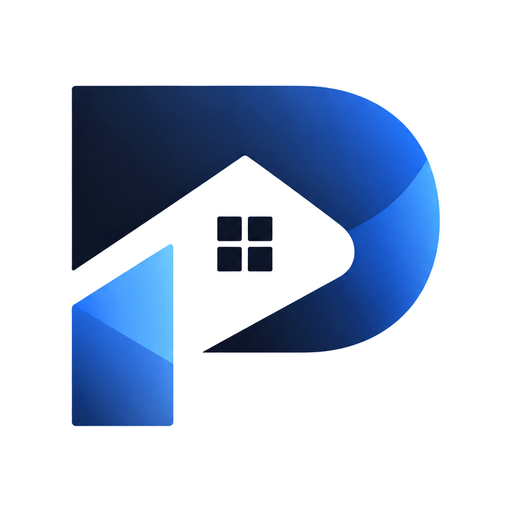
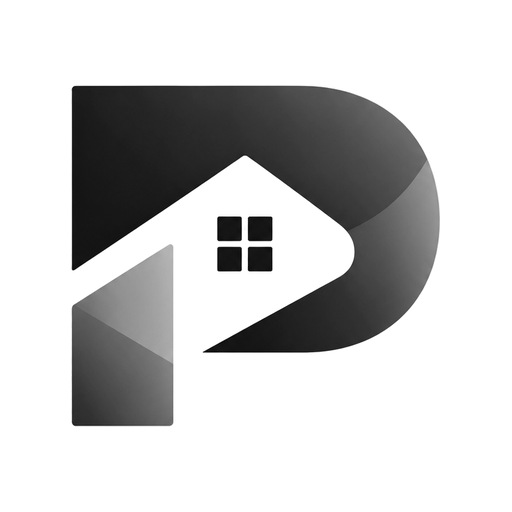
Web: monochrome theme — black ink where the blue brand was
Every brand, info and accent token re-stepped to greys in both light and
dark; ok/warn/danger keep their hues because status must read at a
glance. Logo assets desaturated to match. The login scene is re-stepped
to greyscale like any other token.

Changed region(s): [[0.125, 0.1562, 0.875, 0.6875], [0.125, 0.4688, 0.3438, 0.8438]]

diff --git a/frontend/src/app/globals.css b/frontend/src/app/globals.css
@@ -9,38 +9,38 @@
 @theme {
   --font-sans: var(--font-inter), var(--font-devanagari), "Noto Sans", system-ui, -apple-system, "Segoe UI", Roboto, sans-serif;
 
-  --color-bg: #f7f8fa;
+  --color-bg: #f7f7f7;
   --color-surface: #ffffff;
-  --color-surface-2: #f9fafb;
-  --color-ink: #171c26;
-  --color-ink-soft: #596273;
-  --color-ink-faint: #8a93a5;
-  --color-line: #e7e9ee;
-  --color-line-strong: #d3d7de;
+  --color-surface-2: #fafafa;
+  --color-ink: #171717;
+  --color-ink-soft: #595959;
+  --color-ink-faint: #8f8f8f;
+  --color-line: #e8e8e8;
+  --color-line-strong: #d4d4d4;
 
-  --color-brand: #0f6cbd;
-  --color-brand-strong: #0b58a0;
-  --color-brand-soft: #e6f0fb;
-  --color-brand-ink: #0b58a0;
+  --color-brand: #171717;
+  --color-brand-strong: #000000;
+  --color-brand-soft: #ececec;
+  --color-brand-ink: #171717;
 
-  --color-teal: #0e8a7d;
-  --color-teal-soft: #e0f4f1;
-  --color-violet: #6b4fd8;
-  --color-violet-soft: #eeeafc;
+  --color-teal: #525252;
+  --color-teal-soft: #ededed;
+  --color-violet: #737373;
+  --color-violet-soft: #f1f1f1;
   --color-ok: #107c41;
   --color-ok-soft: #e2f3e9;
   --color-warn: #b25e00;
   --color-warn-soft: #fdf0dd;
   --color-danger: #c4314b;
   --color-danger-soft: #fbe8ec;
-  --color-info: #0f6cbd;
-  --color-info-soft: #e6f0fb;
+  --color-info: #595959;
+  --color-info-soft: #ececec;
   /* Text on a solid tone fill: white here, dark in dark mode where the fills turn pastel. */
   --color-on-solid: #ffffff;
   /* The lifted item in a track, like the chosen tab: always lighter than what it sits in. */
   --color-raised: #ffffff;
   /* One chart series: validated against the card surface in each theme (dataviz lightness band, 3:1 contrast). */
-  --color-chart: #0f6cbd;
+  --color-chart: #171717;
 
   --shadow-card: 0 1px 2px rgb(16 24 40 / 0.04), 0 1px 3px rgb(16 24 40 / 0.06);
   --shadow-pop: 0 12px 32px rgb(16 24 40 / 0.16), 0 2px 6px rgb(16 24 40 / 0.08);
@@ -50,103 +50,103 @@
 /* The login scene: a day sky over a sandstone building. Night re-steps these like any other token. */
 :root {
   color-scheme: light;
-  --sky-top: #9dc0e6;
-  --sky: #d3e3f4;
+  --sky-top: #bcbcbc;
+  --sky: #e2e2e2;
   --cloud: #ffffff;
-  --stone: #eccda4;
-  --trim: #c9956a;
-  --glass: #7b9dc4;
-  --glass-hi: #d8e6f5;
-  --glow: #f2a24a;
-  --glow-hi: #ffe3ad;
-  --leaf: #6e8b3d;
-  --leaf-2: #4d6b2c;
+  --stone: #d6d6d6;
+  --trim: #9e9e9e;
+  --glass: #9a9a9a;
+  --glass-hi: #e6e6e6;
+  --glow: #d9d9d9;
+  --glow-hi: #f2f2f2;
+  --leaf: #7d7d7d;
+  --leaf-2: #5e5e5e;
 }
 
-/* Dark: re-stepped against a #0e1117 surface, not inverted. */
+/* Dark: re-stepped against a #121212 surface, not inverted. */
 @media (prefers-color-scheme: dark) {
   :root:not([data-theme="light"]) {
     color-scheme: dark;
-    --color-bg: #0e1117;
-    --color-surface: #161b24;
-    --color-surface-2: #1c2230;
-    --color-ink: #e9edf4;
-    --color-ink-soft: #a3adbf;
-    --color-ink-faint: #6e7889;
-    --color-line: #262d3a;
-    --color-line-strong: #384253;
-    --color-brand: #5aa7f0;
-    --color-brand-strong: #7fbcf5;
-    --color-brand-soft: #14273f;
-    --color-brand-ink: #8cc4f7;
-    --color-teal: #43c2b3;
-    --color-teal-soft: #0f2b28;
-    --color-violet: #ab8ff7;
-    --color-violet-soft: #251d40;
+    --color-bg: #121212;
+    --color-surface: #1b1b1b;
+    --color-surface-2: #222222;
+    --color-ink: #ededed;
+    --color-ink-soft: #ababab;
+    --color-ink-faint: #767676;
+    --color-line: #2c2c2c;
+    --color-line-strong: #404040;
+    --color-brand: #ededed;
+    --color-brand-strong: #ffffff;
+    --color-brand-soft: #2f2f2f;
+    --color-brand-ink: #ededed;
+    --color-teal: #b0b0b0;
+    --color-teal-soft: #272727;
+    --color-violet: #949494;
+    --color-violet-soft: #2b2b2b;
     --color-ok: #52c47e;
     --color-ok-soft: #112b1b;
     --color-warn: #f1a54d;
     --color-warn-soft: #33230f;
     --color-danger: #f2758d;
     --color-danger-soft: #35161e;
-    --color-info: #5aa7f0;
-    --color-info-soft: #14273f;
-    --color-on-solid: #0e1117;
-    --color-raised: #2a3242;
-    --color-chart: #4a97e6;
+    --color-info: #ababab;
+    --color-info-soft: #2f2f2f;
+    --color-on-solid: #121212;
+    --color-raised: #343434;
+    --color-chart: #d4d4d4;
     --shadow-card: 0 1px 2px rgb(0 0 0 / 0.4);
     --shadow-pop: 0 16px 40px rgb(0 0 0 / 0.6);
-    --sky-top: #060d1a;
-    --sky: #0f1b2e;
-    --cloud: #1a2740;
-    --stone: #5a4a3b;
-    --trim: #3d3128;
-    --glass: #1d2d47;
-    --glass-hi: #34496b;
-    --leaf: #2f4526;
-    --leaf-2: #22341c;
+    --sky-top: #0d0d0d;
+    --sky: #1a1a1a;
+    --cloud: #262626;
+    --stone: #4d4d4d;
+    --trim: #333333;
+    --glass: #2b2b2b;
+    --glass-hi: #4a4a4a;
+    --leaf: #3a3a3a;
+    --leaf-2: #2b2b2b;
   }
 }
 :root[data-theme="dark"] {
   color-scheme: dark;
-  --color-bg: #0e1117;
-  --color-surface: #161b24;
-  --color-surface-2: #1c2230;
-  --color-ink: #e9edf4;
-  --color-ink-soft: #a3adbf;
-  --color-ink-faint: #6e7889;
-  --color-line: #262d3a;
-  --color-line-strong: #384253;
-  --color-brand: #5aa7f0;
-  --color-brand-strong: #7fbcf5;
-  --color-brand-soft: #14273f;
-  --color-brand-ink: #8cc4f7;
-  --color-teal: #43c2b3;
-  --color-teal-soft: #0f2b28;
-  --color-violet: #ab8ff7;
-  --color-violet-soft: #251d40;
+  --color-bg: #121212;
+  --color-surface: #1b1b1b;
+  --color-surface-2: #222222;
+  --color-ink: #ededed;
+  --color-ink-soft: #ababab;
+  --color-ink-faint: #767676;
+  --color-line: #2c2c2c;
+  --color-line-strong: #404040;
+  --color-brand: #ededed;
+  --color-brand-strong: #ffffff;
+  --color-brand-soft: #2f2f2f;
+  --color-brand-ink: #ededed;
+  --color-teal: #b0b0b0;
+  --color-teal-soft: #272727;
+  --color-violet: #949494;
+  --color-violet-soft: #2b2b2b;
   --color-ok: #52c47e;
   --color-ok-soft: #112b1b;
   --color-warn: #f1a54d;
   --color-warn-soft: #33230f;
   --color-danger: #f2758d;
   --color-danger-soft: #35161e;
-  --color-info: #5aa7f0;
-  --color-info-soft: #14273f;
-  --color-on-solid: #0e1117;
-  --color-raised: #2a3242;
-  --color-chart: #4a97e6;
+  --color-info: #ababab;
+  --color-info-soft: #2f2f2f;
+  --color-on-solid: #121212;
+  --color-raised: #343434;
+  --color-chart: #d4d4d4;
   --shadow-card: 0 1px 2px rgb(0 0 0 / 0.4);
   --shadow-pop: 0 16px 40px rgb(0 0 0 / 0.6);
-  --sky-top: #060d1a;
-  --sky: #0f1b2e;
-  --cloud: #1a2740;
-  --stone: #5a4a3b;
-  --trim: #3d3128;
-  --glass: #1d2d47;
-  --glass-hi: #34496b;
-  --leaf: #2f4526;
-  --leaf-2: #22341c;
+  --sky-top: #0d0d0d;
+  --sky: #1a1a1a;
+  --cloud: #262626;
+  --stone: #4d4d4d;
+  --trim: #333333;
+  --glass: #2b2b2b;
+  --glass-hi: #4a4a4a;
+  --leaf: #3a3a3a;
+  --leaf-2: #2b2b2b;
 }
 
 html { -webkit-text-size-adjust: 100%; }

diff --git a/frontend/src/app/manifest.ts b/frontend/src/app/manifest.ts
@@ -9,8 +9,8 @@ export default function manifest(): MetadataRoute.Manifest {
     start_url: "/",
     display: "standalone",
     orientation: "portrait",
-    background_color: "#f7f8fa",   // --color-bg
-    theme_color: "#171c26",        // --color-ink, the wordmark's own dark
+    background_color: "#f7f7f7",   // --color-bg
+    theme_color: "#171717",        // --color-ink, the wordmark's own dark
     lang: "hi",
     icons: [
       { src: "/icon-192.png", sizes: "192x192", type: "image/png", purpose: "any" },

diff --git a/frontend/src/app/layout.tsx b/frontend/src/app/layout.tsx
@@ -19,7 +19,7 @@ export const viewport: Viewport = {
   initialScale: 1,
   viewportFit: "cover",
   // The browser chrome follows the page, which is the light ground the wordmark sits on; dark mode gets the ink.
-  themeColor: [{ media: "(prefers-color-scheme: light)", color: "#f7f8fa" }, { media: "(prefers-color-scheme: dark)", color: "#171c26" }],
+  themeColor: [{ media: "(prefers-color-scheme: light)", color: "#f7f7f7" }, { media: "(prefers-color-scheme: dark)", color: "#171717" }],
 }
 
 /**
